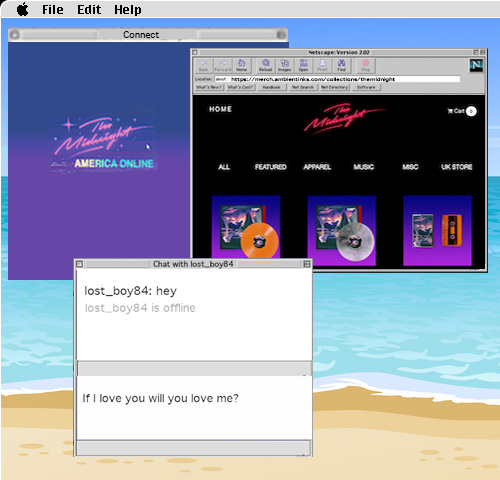
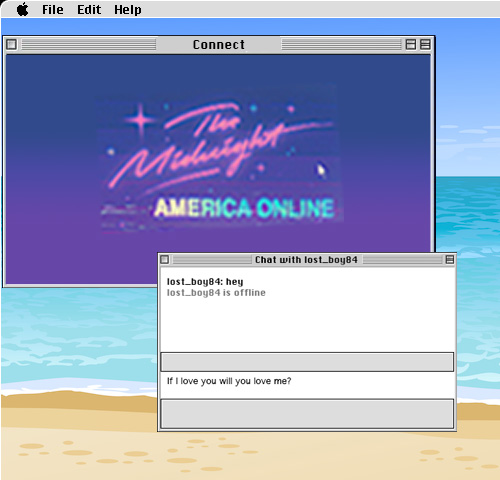
updated chatroom desktop

diff --git a/src/components/ChatRoom/index.js b/src/components/ChatRoom/index.js
@@ -39,17 +39,19 @@ const StyledPlanetImage = styled.img`
 
 const StyledChatRoomLink = styled.a`
   position: absolute;
-  top: 284px;
-  left: 201px;
+  top: 264px;
+  left: 282px;
   font-size: 5px;
-  color: #535252;
+  color: #313848;
   text-decoration: none;
-  border: solid #9e9e9e 1px;
-  padding: 0 3px;
-  box-shadow: #9e9e9e 0px 1px 0px 0px;
+
+  border: solid #24334a4d 1px;
+  padding: 1px 3px;
+  box-shadow: #48577b 0px 1px 0px 0px;
+  font-family: monospace;
   :hover {
     box-shadow: none;
-    top: 285px;
+    top: 265px;
   }
 `;
 
@@ -96,8 +98,8 @@ const StyledShopLink = styled.a`
 const StyledChatbotButton = styled.button`
   position: absolute;
   top: 70px;
-  left: 66px;
-  padding: 32px 41px;
+  left: 44px;
+  padding: 55px 126px;
   background: transparent;
   border: none;
   cursor: pointer;
@@ -137,13 +139,8 @@ export const ChatRoom = ({ handleClick, width }) => {
       {!showChatbot && (
         <div>
           <StyledImage responsiveWidth={width} src={desktop} />
+
           <StyledDesktop></StyledDesktop>
-          <StyledShopLink
-            href="https://merch.ambientinks.com/collections/themidnight"
-            target="_blank"
-            rel="noopener noreferrer"
-          />
-          <StyledChatbotButton onClick={openChatbot} />
           <StyledChatRoomLink
             href="http://183010165.com/"
             target="_blank"
@@ -152,6 +149,12 @@ export const ChatRoom = ({ handleClick, width }) => {
           >
             {`Send >`}
           </StyledChatRoomLink>
+          {/* <StyledShopLink
+            href="https://merch.ambientinks.com/collections/themidnight"
+            target="_blank"
+            rel="noopener noreferrer"
+          /> */}
+          <StyledChatbotButton onClick={openChatbot} />
         </div>
       )}
       <StyledTechLink
